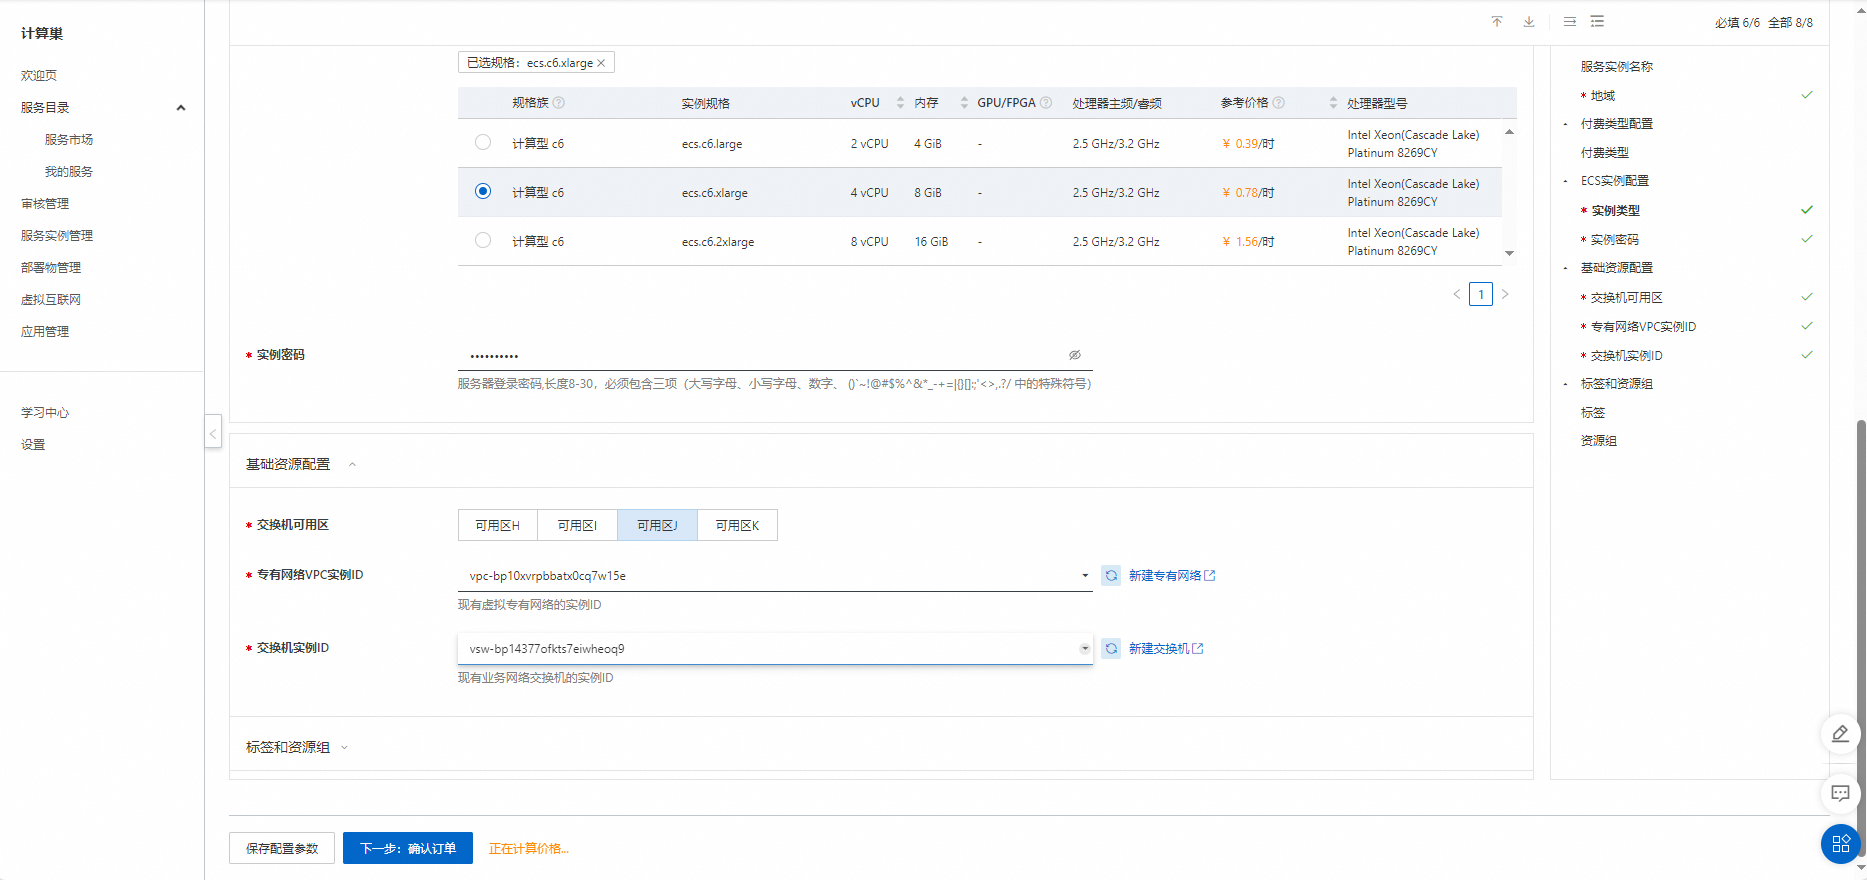
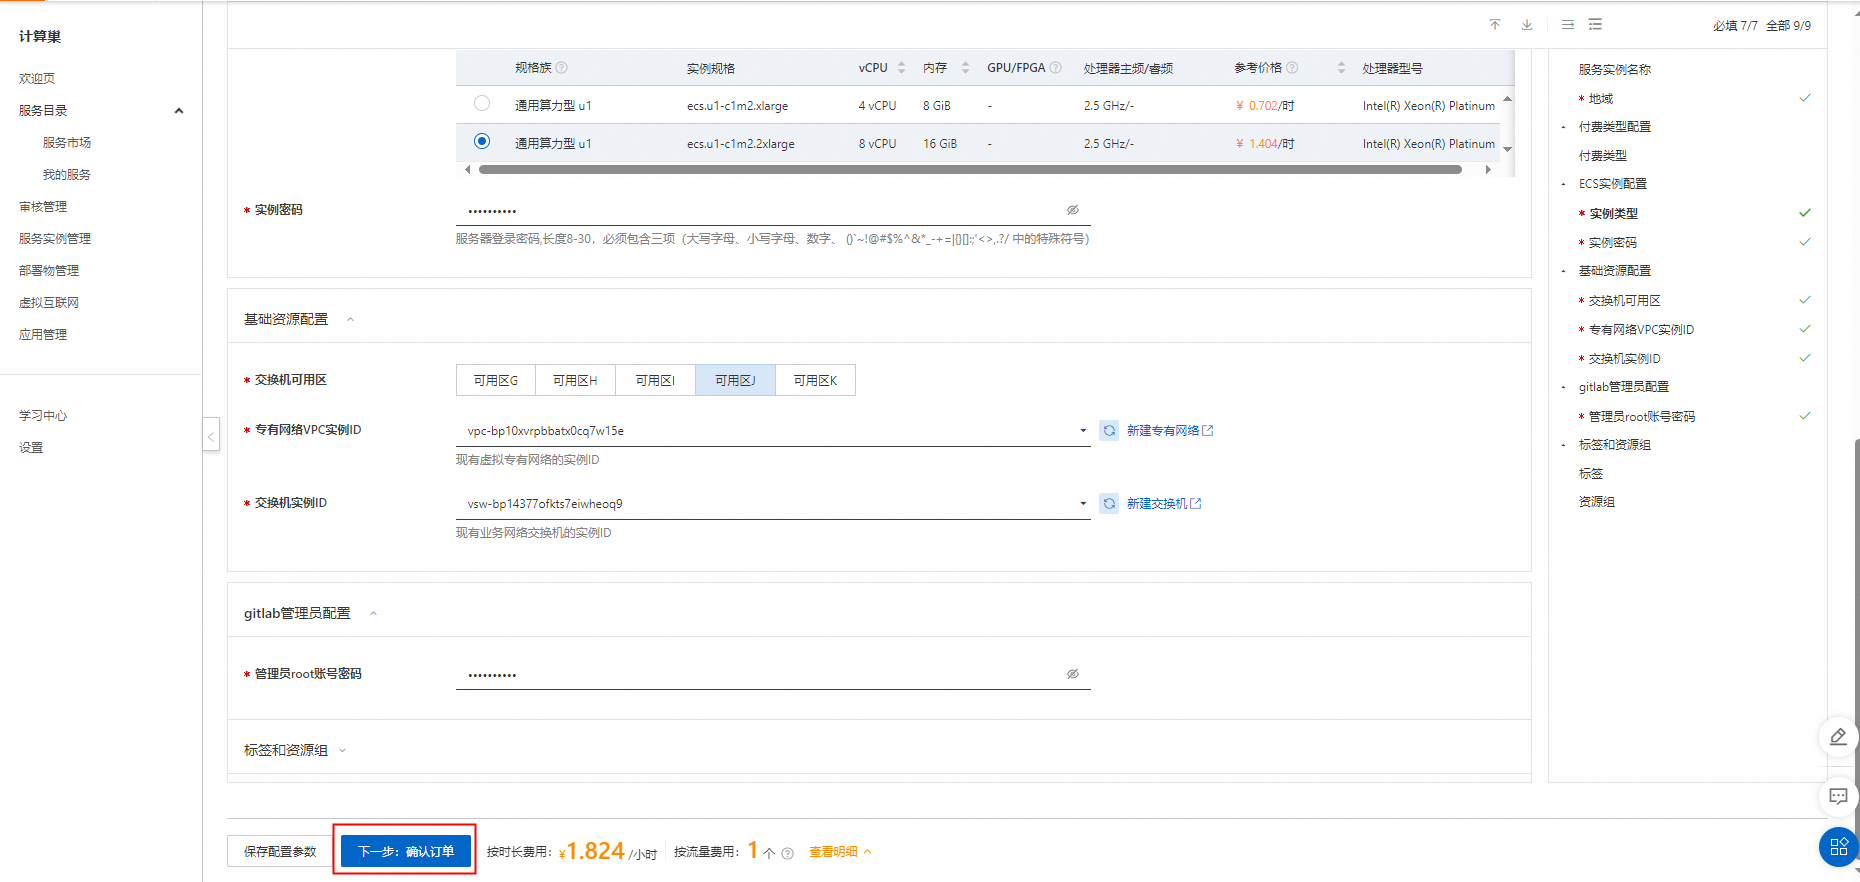
GitLab说明文档修改4

diff --git a/docs/index.md b/docs/index.md
@@ -30,8 +30,7 @@ Gitlab 社区版上的费用主要涉及：
 | 网络配置       | 可用区         | ECS实例所在可用区                                                             |
 |            | VPC ID      | 资源所在VPC                                                                |
 |            | 交换机ID       | 资源所在交换机                                                                |
-| gitlab账号配置 | gitlab管理员邮箱 | gitlab管理员邮箱配置                                                          |
-|            | gitlab管理员密码 | gitlab管理员密码配置                                                          |
+| gitlab账号配置 | gitlab管理员密码 | gitlab管理员密码配置                                                          |
 
 ## RAM账号所需权限
 
@@ -47,7 +46,7 @@ Gitlab 社区版上的费用主要涉及：
 
 ## 部署流程
 
-1.访问Gitlab 社区版服务[部署链接](https://computenest.console.aliyun.com/service/instance/create/cn-hangzhou?type=user&ServiceId=service-c6be5c5106944ed2b738)
+1.访问Gitlab 社区版服务[部署链接](https://computenest.console.aliyun.com/service/instance/create/cn-hangzhou?type=user&ServiceId=service-c6be5c5106944ed2b738&ServiceVersion=6)
 ，按提示填写部署参数：
 
 ![image.png](2.png)
@@ -70,3 +69,86 @@ Gitlab 社区版上的费用主要涉及：
 
 ![image.png](6.png)
 ![image.png](7.png)
+
+## Git安装并配置
+
+1.安装Git工具。
+
+> sudo yum install git -y
+
+2.生成密钥对文件id_rsa。
+
+> ssh-keygen
+
+生成密钥对的过程中，系统会提示输入密钥对存放目录（默认为当前用户目录下的.ssh/id_rsa，例如/root/.ssh/id_rsa）和密钥对密码，您可以手动输入，也可以按Enter保持默认。 回显信息类似如下所示。
+
+![image.png](9.png)
+
+3.查看并复制公钥文件id_rsa.pub中的内容。
+
+> cat .ssh/id_rsa.pub
+
+![image.png](10.png)
+
+4.在gitlab页面中，单击Add SSH key，将公钥文件id_rsa.pub中的内容粘贴到Key所在的文本框中。
+
+![image.png](11.png)
+![image.png](12.png)
+
+5.单击Add key，SSH Key添加完成后，如图所示。
+
+![image.png](13.png)
+
+## 创建项目
+
+1.在GitLab的主页中，单击Create a project。
+
+![image.png](14.png)
+
+2.单击Create blank project，设置Project name和Project URL，然后单击Create project。本文以mywork项目为例进行说明。
+
+![image.png](15.png)
+
+## 使用gitlab
+
+1.配置使用Git仓库的人员姓名和邮箱。
+
+> git config --global user.name "testname" 
+> 
+> git config --global user.email "abc@example.com" 
+
+2.克隆已创建的项目到本地。
+
+![image.png](16.png)
+
+![image.png](17.png)
+
+3.进入到项目目录。
+
+> cd mywork/ 
+
+4.创建test.sh文件并增加内容‘gitlab-ce_test’。
+
+> vim test.sh
+
+5.将test.sh文件加入到索引中。
+
+> git add test.sh
+
+6.将test.sh提交到本地仓库。
+
+> git commit -m "test.sh"
+
+7.将文件同步到GitLab服务器上。
+
+> git push -u origin main
+
+![image.png](18.png)
+
+8.在网页中查看上传的test.sh文件已经同步到GitLab服务器中。
+
+![image.png](19.png)
+
+## 参考文档
+
+https://help.aliyun.com/zh/ecs/use-cases/deploy-and-use-gitlab#2578472088odq
